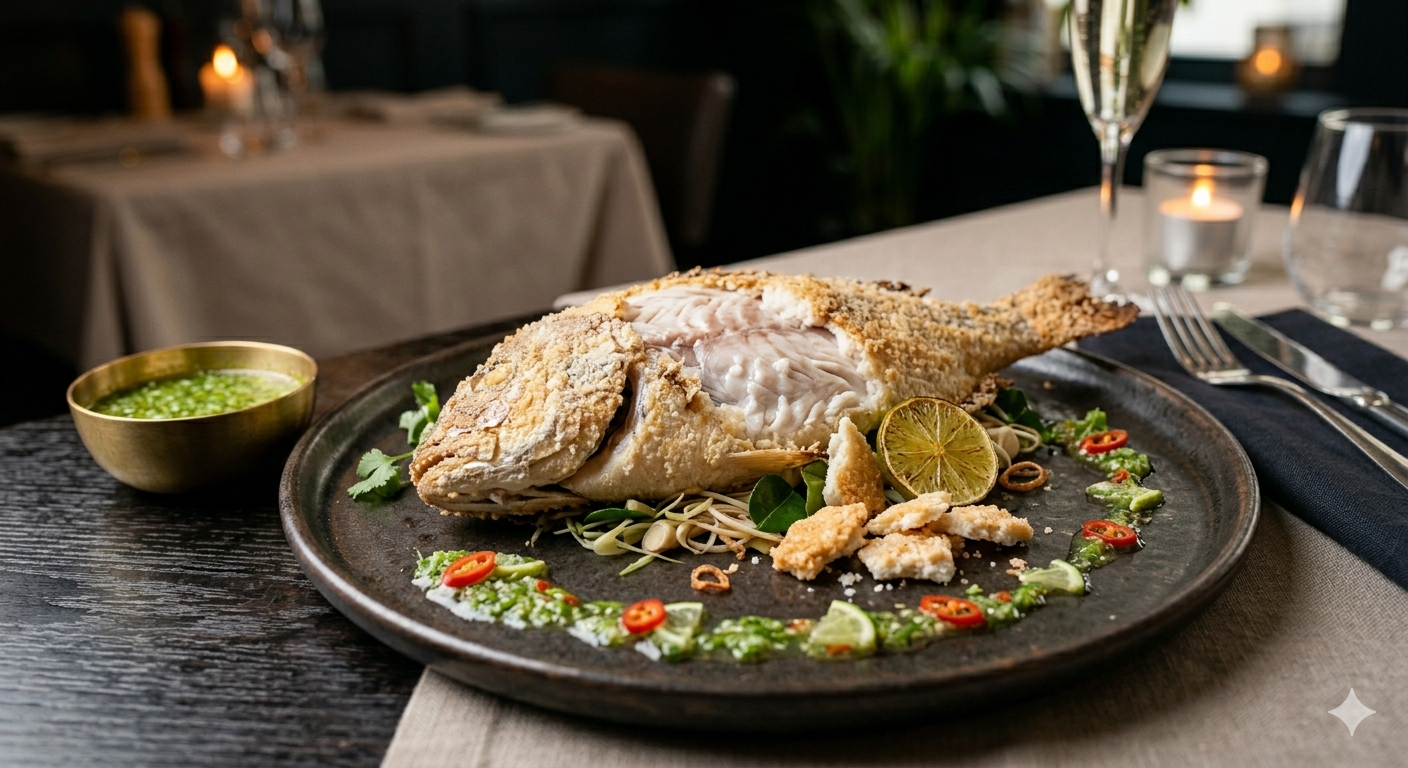
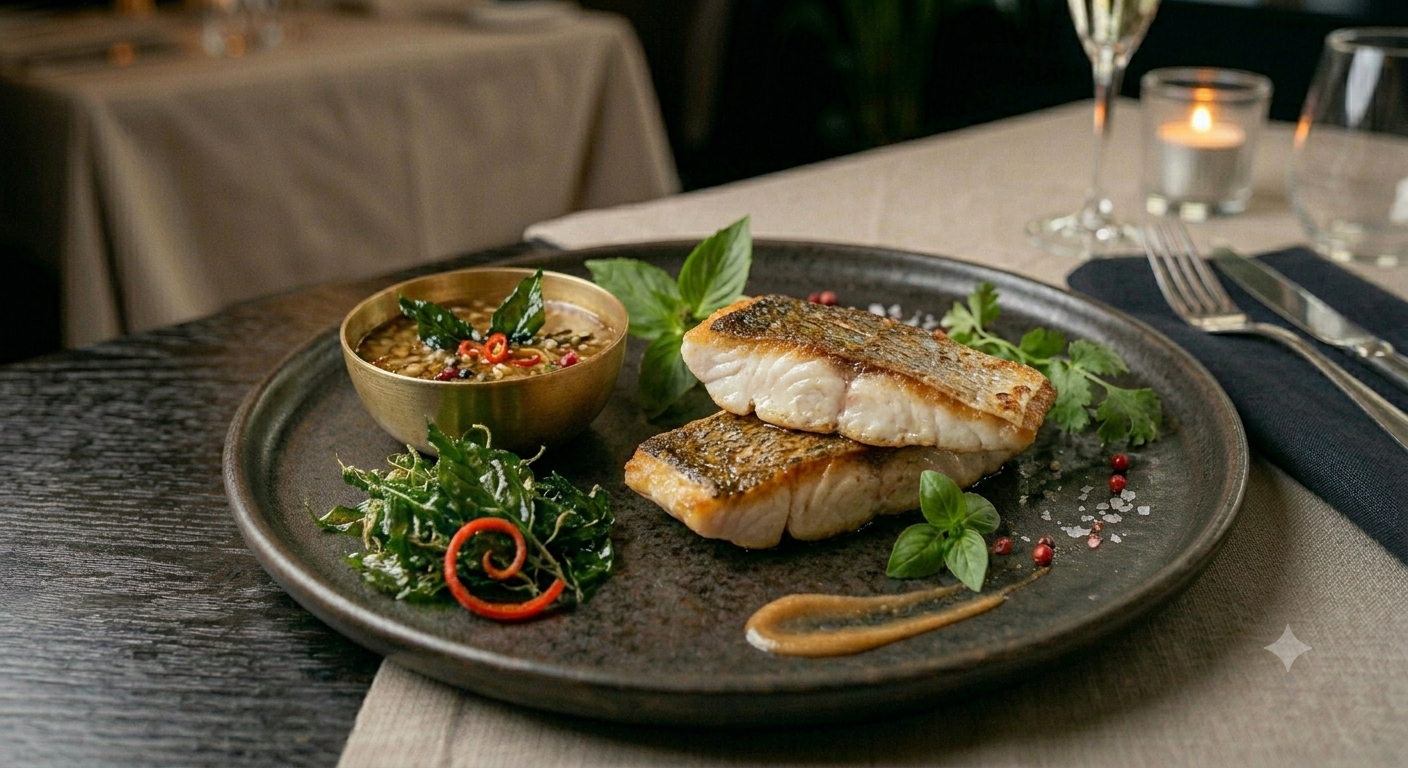
Remove seats: one guest, one invite, one meal
The couple sends every person their own link, so party size no longer exists. Drops maxGuests from the schema (migration), admin UI, tallies, and CSV; meal counts now equal attending counts.

diff --git a/src/components/admin/GuestTable.tsx b/src/components/admin/GuestTable.tsx
@@ -29,14 +29,6 @@ function StatusPill({ status }: { status: GuestStatus }) {
   );
 }
 
-function SeatBadge({ seats }: { seats: number }) {
-  return (
-    <span className="rounded bg-zinc-100 px-1.5 py-0.5 text-xs text-zinc-500">
-      {seats} {seats === 1 ? "seat" : "seats"}
-    </span>
-  );
-}
-
 function notesText(guest: Guest): string | null {
   const text =
     guest.response?.attending === "yes"
@@ -116,19 +108,6 @@ function EditForm({ guest, onDone }: { guest: Guest; onDone: () => void }) {
           name="name"
           defaultValue={guest.name}
           required
-          className="rounded-lg border border-zinc-300 px-3 py-1.5 text-sm focus:border-burgundy focus:outline-none"
-        />
-      </div>
-      <div className="flex w-20 flex-col gap-1">
-        <label htmlFor={`edit-seats-${guest.id}`} className="text-xs text-zinc-500">
-          Seats
-        </label>
-        <input
-          id={`edit-seats-${guest.id}`}
-          name="maxGuests"
-          type="number"
-          min={1}
-          defaultValue={guest.maxGuests}
           className="rounded-lg border border-zinc-300 px-3 py-1.5 text-sm focus:border-burgundy focus:outline-none"
         />
       </div>
@@ -231,10 +210,7 @@ export default function GuestTable({
               return (
                 <tr key={guest.id} className="align-top hover:bg-zinc-50/60">
                   <td className="px-4 py-3">
-                    <div className="flex items-center gap-2">
-                      <p className="font-medium text-zinc-900">{guest.name}</p>
-                      <SeatBadge seats={guest.maxGuests} />
-                    </div>
+                    <p className="font-medium text-zinc-900">{guest.name}</p>
                     <p className="font-mono text-xs text-zinc-400">
                       {guest.token}
                     </p>
@@ -297,10 +273,7 @@ export default function GuestTable({
                 <>
                   <div className="flex items-start justify-between gap-2">
                     <div className="min-w-0">
-                      <div className="flex items-center gap-2">
-                        <p className="font-medium text-zinc-900">{guest.name}</p>
-                        <SeatBadge seats={guest.maxGuests} />
-                      </div>
+                      <p className="font-medium text-zinc-900">{guest.name}</p>
                       <p className="truncate font-mono text-xs text-zinc-400">
                         {guest.token}
                       </p>

diff --git a/src/lib/guests.ts b/src/lib/guests.ts
@@ -9,11 +9,12 @@ export type GuestStatus = "not_sent" | "sent" | "responded";
 // The app-facing shape is unchanged from the mock era: dates are ISO STRINGS
 // (client code string-sorts and slices them) and the response is a composed
 // RsvpAnswers object. All Prisma specifics stay inside this module.
+// One guest = one invite = one seat = one meal (the couple sends every person
+// their own link), so there is deliberately no party-size/seats concept.
 export type Guest = {
   id: string;
   name: string;
   token: string;
-  maxGuests: number;
   status: GuestStatus;
   response: RsvpAnswers | null;
   respondedAt: string | null;
@@ -25,7 +26,6 @@ function toGuest(row: GuestRow): Guest {
     id: row.id,
     name: row.name,
     token: row.token,
-    maxGuests: row.maxGuests,
     status: row.status,
     response:
       row.attending === null
@@ -104,19 +104,9 @@ function randomToken(name: string): string {
   return `${slugify(name)}-${rand}`;
 }
 
-// Bounded both ends: the venue caps at 100, and an unbounded value would
-// overflow the INT4 column and throw instead of clamping.
-function clampSeats(value: number): number {
-  return Math.min(99, Math.max(1, Math.floor(Number.isFinite(value) ? value : 1)));
-}
-
-export async function createGuest(
-  name: string,
-  maxGuests = 1,
-): Promise<Guest> {
+export async function createGuest(name: string): Promise<Guest> {
   const data = {
     name: name.trim(),
-    maxGuests: clampSeats(maxGuests),
     status: "not_sent" as const,
   };
   // Token uniqueness is enforced by the DB constraint; retry on collision.
@@ -135,17 +125,13 @@ export async function createGuest(
 
 export async function updateGuest(
   id: string,
-  patch: Partial<Pick<Guest, "name" | "maxGuests" | "status">>,
+  patch: Partial<Pick<Guest, "name" | "status">>,
 ): Promise<Guest | null> {
   try {
     const row = await prisma.guest.update({
       where: { id },
       data: {
         name: patch.name !== undefined ? patch.name.trim() : undefined,
-        maxGuests:
-          patch.maxGuests !== undefined
-            ? clampSeats(patch.maxGuests)
-            : undefined,
         status: patch.status,
       },
     });

diff --git a/src/components/admin/AddGuest.tsx b/src/components/admin/AddGuest.tsx
@@ -53,26 +53,8 @@ export default function AddGuest() {
                   className={inputClass}
                 />
                 <p className="text-xs text-zinc-400">
-                  Households read naturally, e.g. &ldquo;Maya Mason &amp;
-                  family&rdquo;.
+                  Every guest gets their own personal invite link.
                 </p>
-              </div>
-
-              <div className="flex w-28 flex-col gap-1.5">
-                <label
-                  htmlFor="new-max"
-                  className="text-sm font-medium text-zinc-700"
-                >
-                  Seats
-                </label>
-                <input
-                  id="new-max"
-                  name="maxGuests"
-                  type="number"
-                  min={1}
-                  defaultValue={1}
-                  className={inputClass}
-                />
               </div>
 
               <div className="mt-2 flex justify-end gap-2">

diff --git a/src/app/admin/(app)/page.tsx b/src/app/admin/(app)/page.tsx
@@ -20,22 +20,21 @@ export default async function AdminDashboard() {
     (guest) => guest.response?.attending === "no",
   );
 
-  // Seat-weighted: a 2-seat guest counts as 2 confirmed seats / 2 of their dish.
-  const confirmedSeats = attending.reduce((sum, g) => sum + g.maxGuests, 0);
+  // One guest = one meal, so tallies are simple counts over attending guests.
   const mealCounts = new Map<string, number>();
   for (const guest of attending) {
     const id = guest.response?.mealId;
-    if (id) mealCounts.set(id, (mealCounts.get(id) ?? 0) + guest.maxGuests);
+    if (id) mealCounts.set(id, (mealCounts.get(id) ?? 0) + 1);
   }
   const tallies = DISHES.map((dish) => ({
     label: dish.label,
     count: mealCounts.get(dish.id) ?? 0,
   }));
-  // Defensive: surface any confirmed seats without a chosen dish so the pills
-  // always add up to the confirmed-seat total (normally zero — dish is required).
-  const chosenSeats = tallies.reduce((sum, t) => sum + t.count, 0);
-  if (confirmedSeats > chosenSeats) {
-    tallies.push({ label: "Unspecified", count: confirmedSeats - chosenSeats });
+  // Defensive: surface attending guests without a chosen dish so the pills
+  // always add up to the attending total (normally zero — dish is required).
+  const chosenMeals = tallies.reduce((sum, t) => sum + t.count, 0);
+  if (attending.length > chosenMeals) {
+    tallies.push({ label: "Unspecified", count: attending.length - chosenMeals });
   }
 
   return (
@@ -68,7 +67,7 @@ export default async function AdminDashboard() {
         pending={guests.length - responded.length}
       />
 
-      <MealsSummary tallies={tallies} confirmedSeats={confirmedSeats} />
+      <MealsSummary tallies={tallies} attendingCount={attending.length} />
 
       <GuestManager
         guests={guests}

diff --git a/src/components/admin/MealsSummary.tsx b/src/components/admin/MealsSummary.tsx
@@ -1,13 +1,12 @@
 type Tally = { label: string; count: number };
 
-// Counts are seat-weighted (a 2-seat guest picking one dish = 2), so the
-// pills add up to the confirmed-seat total.
+// One guest = one meal, so the pills add up to the attending-guest total.
 export default function MealsSummary({
   tallies,
-  confirmedSeats,
+  attendingCount,
 }: {
   tallies: Tally[];
-  confirmedSeats: number;
+  attendingCount: number;
 }) {
   return (
     <section className="rounded-2xl border border-zinc-200 bg-white px-5 py-4">
@@ -16,10 +15,11 @@ export default function MealsSummary({
           Meals
         </p>
         <p className="text-xs text-zinc-500">
+          for{" "}
           <span className="font-mono tabular-nums font-semibold text-burgundy">
-            {confirmedSeats}
+            {attendingCount}
           </span>{" "}
-          confirmed {confirmedSeats === 1 ? "seat" : "seats"}
+          attending {attendingCount === 1 ? "guest" : "guests"}
         </p>
       </div>
       <div className="mt-3 flex flex-wrap gap-2">

diff --git a/prisma/seed.ts b/prisma/seed.ts
@@ -35,7 +35,6 @@ async function main() {
         id: "g1",
         name: "Isabelle",
         token: "test-token",
-        maxGuests: 1,
         status: "sent",
         createdAt: new Date("2026-05-01T10:00:00.000Z"),
       },
@@ -43,7 +42,6 @@ async function main() {
         id: "g2",
         name: "Marco Vidal",
         token: "marco-vidal",
-        maxGuests: 2,
         status: "sent",
         createdAt: new Date("2026-05-03T10:00:00.000Z"),
       },
@@ -51,7 +49,6 @@ async function main() {
         id: "g3",
         name: "Priya Anand",
         token: "priya-anand",
-        maxGuests: 1,
         status: "responded",
         attending: "yes",
         mealId: "beef",
@@ -63,7 +60,6 @@ async function main() {
         id: "g4",
         name: "Théo Laurent",
         token: "theo-laurent",
-        maxGuests: 2,
         status: "responded",
         attending: "yes",
         mealId: "chicken",
@@ -75,7 +71,6 @@ async function main() {
         id: "g5",
         name: "Amara Okafor",
         token: "amara-okafor",
-        maxGuests: 1,
         status: "responded",
         attending: "no",
         note: "So sad to miss it — sending you both all my love!",
@@ -86,7 +81,6 @@ async function main() {
         id: "g6",
         name: "Kenji Watanabe",
         token: "kenji-watanabe",
-        maxGuests: 1,
         status: "not_sent",
         createdAt: new Date("2026-05-12T10:00:00.000Z"),
       },

diff --git a/src/lib/admin-actions.ts b/src/lib/admin-actions.ts
@@ -52,8 +52,7 @@ export async function addGuest(formData: FormData) {
   await requireAdmin();
   const name = String(formData.get("name") ?? "").trim().slice(0, 200);
   if (!name) return;
-  const maxGuests = Number(formData.get("maxGuests") ?? 1) || 1;
-  await createGuest(name, maxGuests);
+  await createGuest(name);
   revalidatePath("/admin");
 }
 
@@ -61,14 +60,13 @@ export async function editGuest(formData: FormData) {
   await requireAdmin();
   const id = String(formData.get("id") ?? "");
   const name = String(formData.get("name") ?? "").trim().slice(0, 200);
-  const maxGuests = Number(formData.get("maxGuests") ?? 1) || 1;
   const raw = String(formData.get("status") ?? "sent");
   const allowed: GuestStatus[] = ["not_sent", "sent", "responded"];
   const status: GuestStatus = allowed.includes(raw as GuestStatus)
     ? (raw as GuestStatus)
     : "sent";
   if (!id || !name) return;
-  await updateGuest(id, { name, maxGuests, status });
+  await updateGuest(id, { name, status });
   revalidatePath("/admin");
 }
 

diff --git a/prisma.config.ts b/prisma.config.ts
@@ -3,8 +3,8 @@ import { defineConfig, env } from "prisma/config";
 
 // The Prisma 7 CLI no longer auto-loads env files, and this project keeps its
 // env in .env.local (Next.js convention).
-config({ path: ".env.local" });
-config(); // fallback: .env
+config({ path: ".env.local", quiet: true });
+config({ quiet: true }); // fallback: .env
 
 export default defineConfig({
   schema: "prisma/schema.prisma",

diff --git a/src/app/admin/export/route.ts b/src/app/admin/export/route.ts
@@ -20,7 +20,6 @@ export async function GET() {
   const rows: string[][] = [
     [
       "Name",
-      "Seats",
       "Token",
       "Status",
       "Attending",
@@ -34,7 +33,6 @@ export async function GET() {
   for (const guest of guests) {
     rows.push([
       guest.name,
-      String(guest.maxGuests),
       guest.token,
       guest.status,
       guest.response?.attending ?? "",